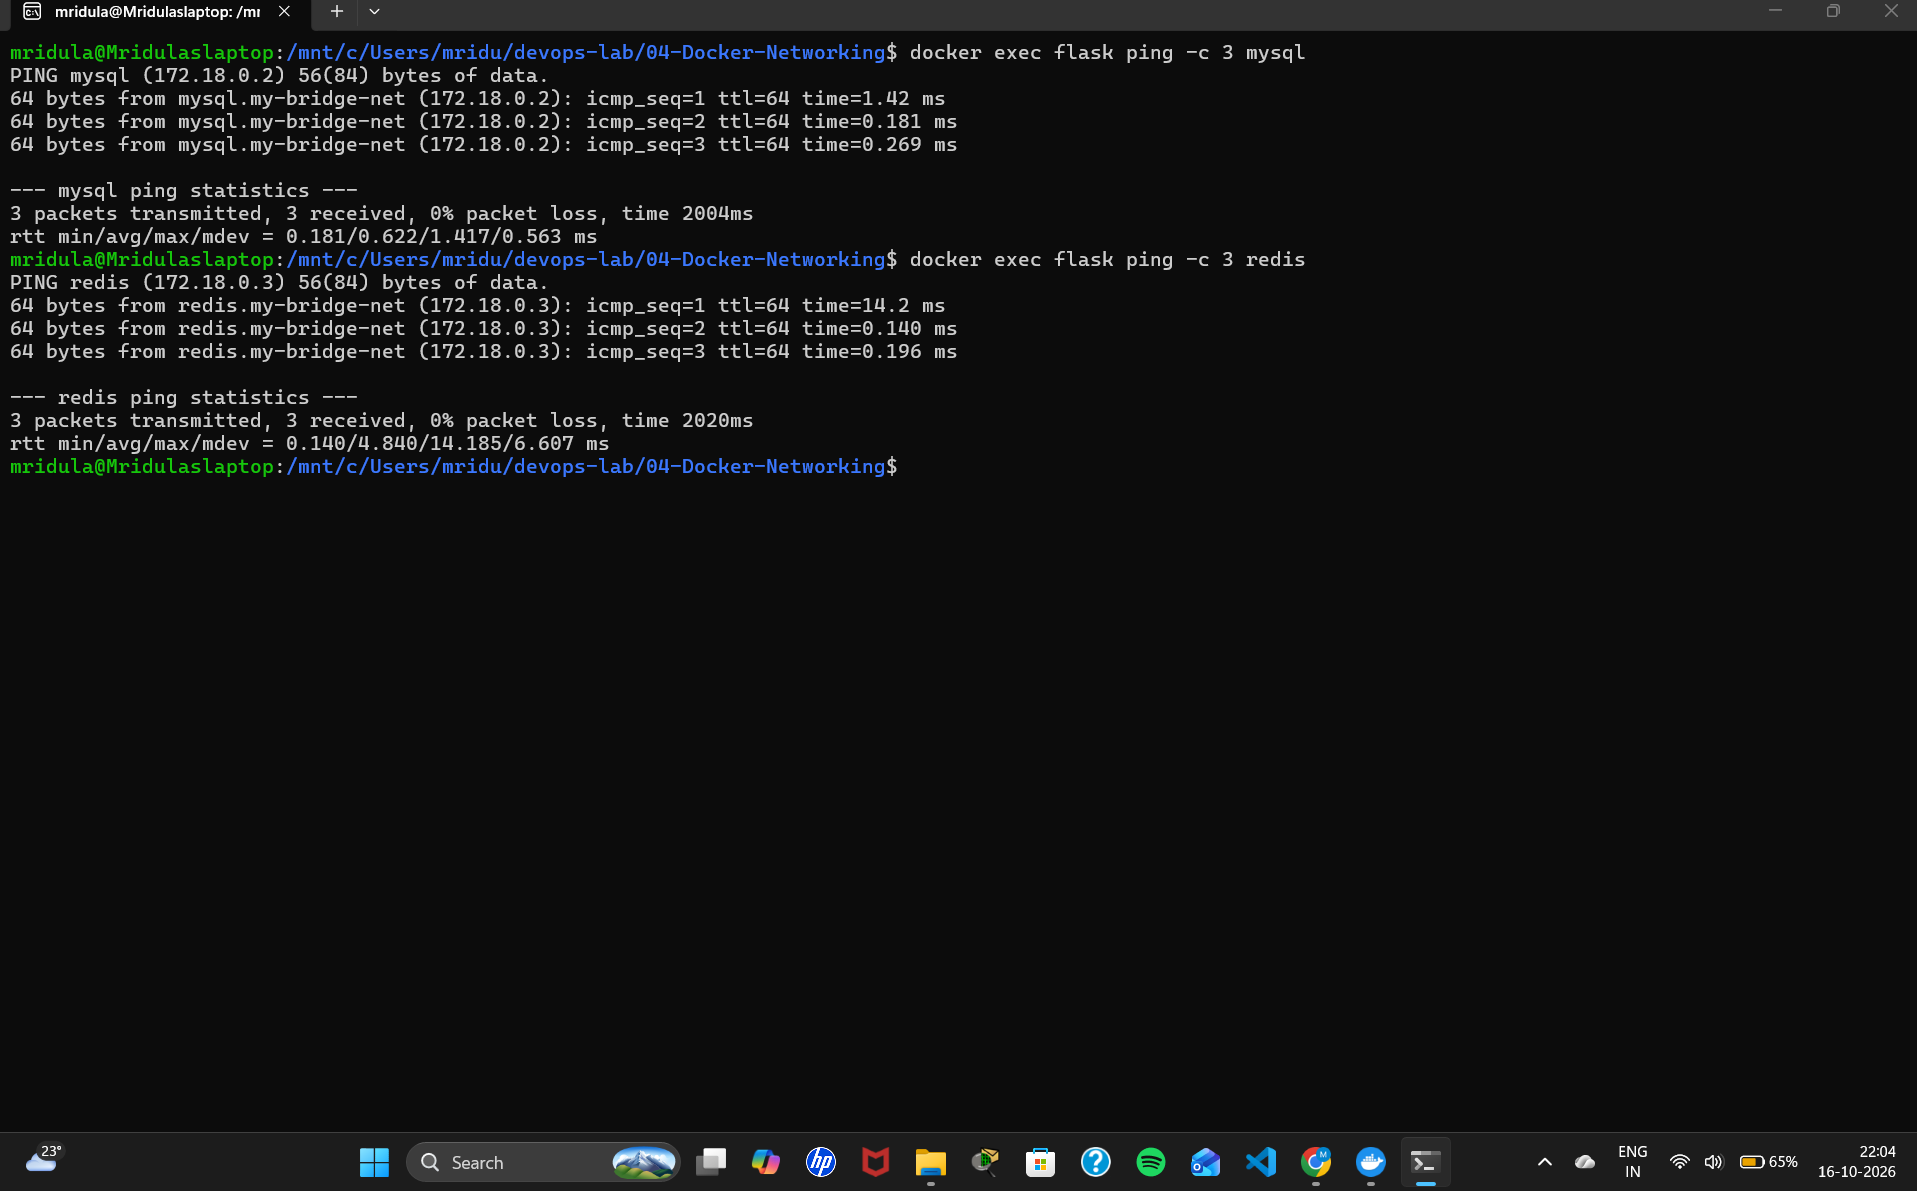
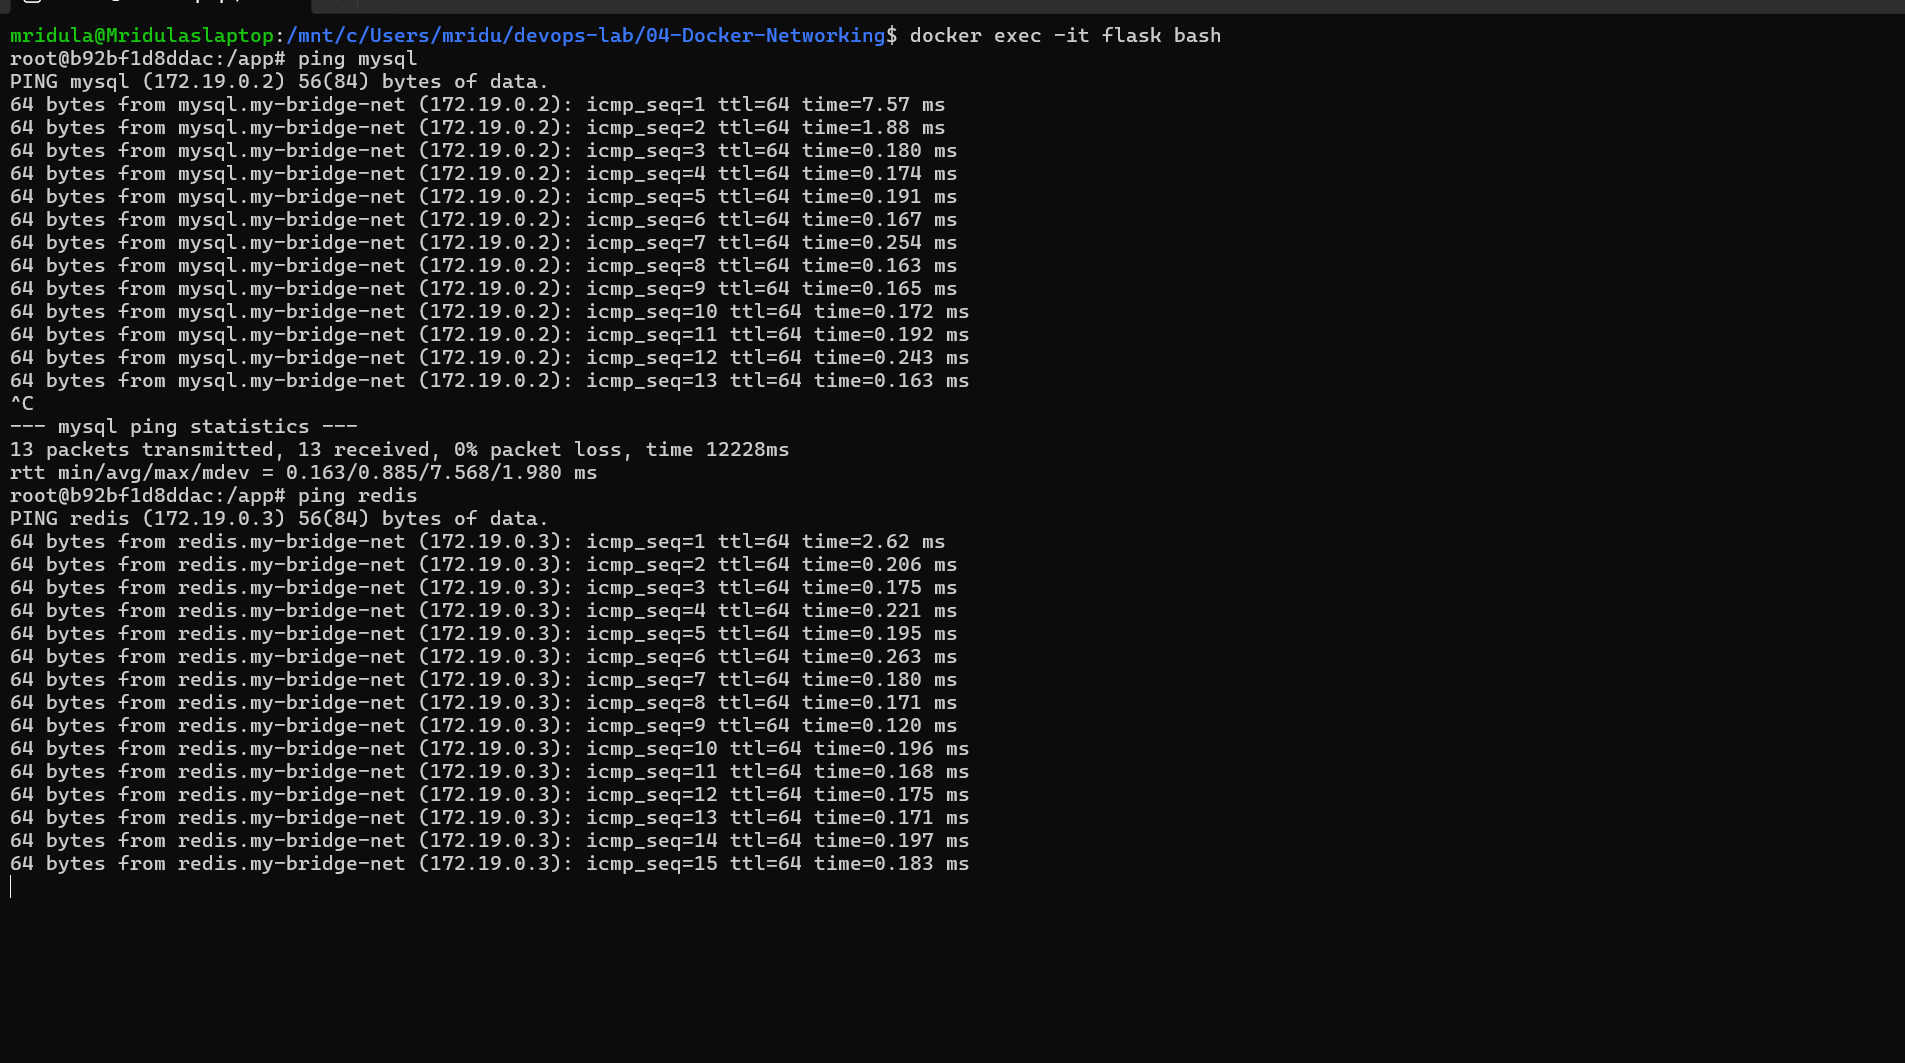
Exercise 4: ping from inside the container as per manual

diff --git a/04-Docker-Networking/README.md b/04-Docker-Networking/README.md
@@ -38,8 +38,10 @@ docker ps
 
 ### Task 5: Test connectivity between containers
 ```bash
-docker exec flask ping -c 3 mysql
-docker exec flask ping -c 3 redis
+docker exec -it flask bash
+ping mysql     # Ctrl+C to stop
+ping redis     # Ctrl+C to stop
+exit
 ```
 Open `http://localhost:5001/about` in the browser.
 
